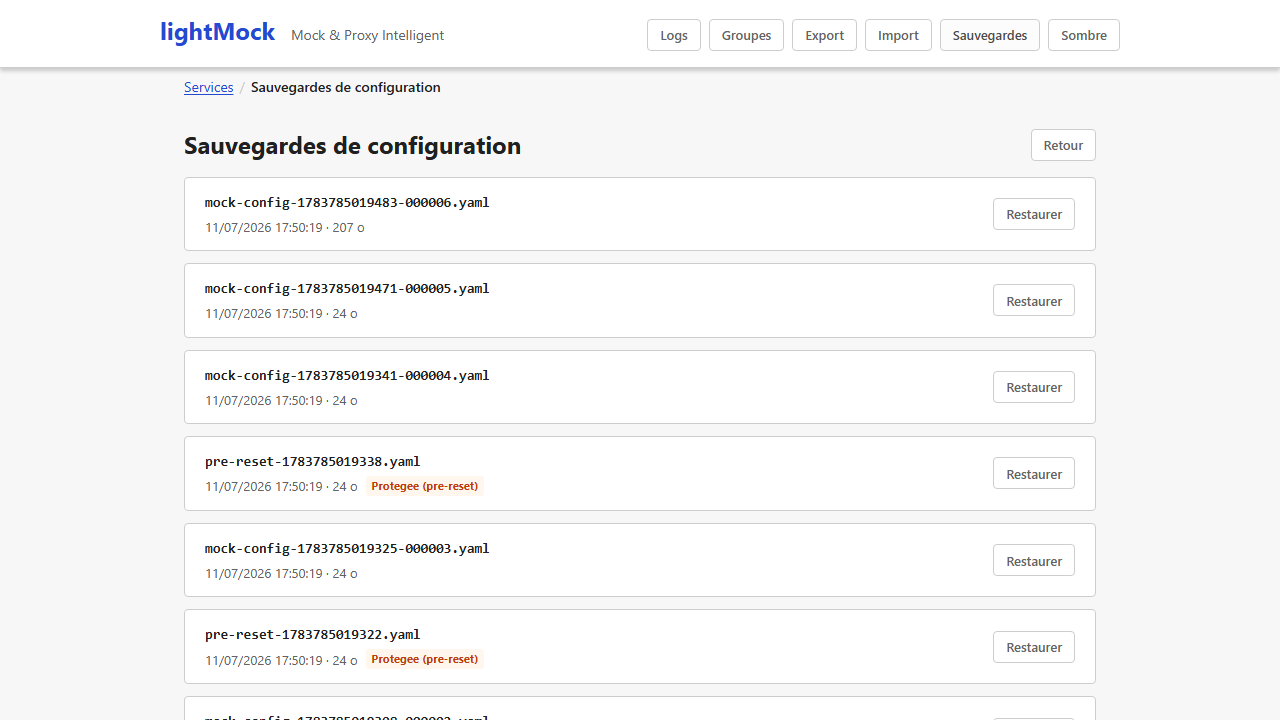
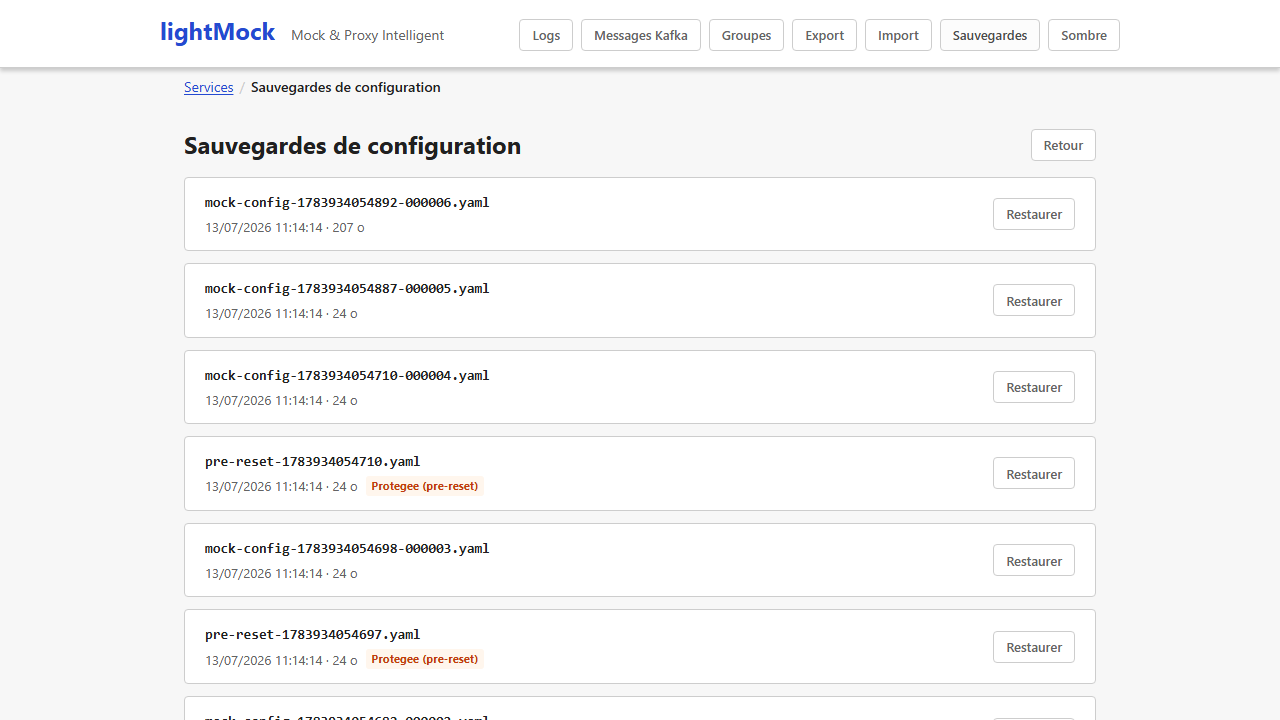
docs: capture les ecrans authentification, journal des requetes, SOAP et Kafka
Remplace les notes "capture manquante" de authentification.md et
journal-des-requetes.md par de vraies images (captures manuelles, ces
parcours ne sont traverses par aucun scenario E2E automatise), ajoute une
capture du formulaire de service en type SOAP/XML dans services.md, et
regenere enfin les 3 captures de messaging-kafka.md deja references dans le
texte mais jamais produites faute de binaire compile avec
--features messaging-kafka. Rafraichit au passage les autres captures
existantes via une regeneration complete de npm run docs:screenshots.

diff --git a/docs/authentification.md b/docs/authentification.md
@@ -12,9 +12,12 @@ Quand l'authentification est activée, lightMock délègue la vérification de l
 organisation, le cas échéant) : un écran de connexion apparaît, et l'accès est ensuite lié à
 l'utilisateur connecté.
 
-*(Capture manquante — l'environnement de tests automatisés tourne avec `AUTH_ENABLED=false`,
-l'écran de connexion Keycloak n'y apparaît jamais ; nécessite un serveur Keycloak réel pour être
-capturée, à réaliser manuellement.)*
+![Écran de connexion affiché quand l'authentification est activée](screenshots/authentification-ecran-connexion.png)
+
+*(Capture réalisée manuellement contre une instance locale temporaire configurée avec
+`AUTH_ENABLED=true` et un serveur Keycloak de substitution ne servant qu'à illustrer l'écran —
+aucun véritable serveur Keycloak d'organisation n'a été utilisé. Le rendu de l'écran lui-même
+est identique quel que soit le Keycloak réellement connecté.)*
 
 Les droits d'accès dépendent alors :
 
@@ -23,8 +26,11 @@ Les droits d'accès dépendent alors :
 - D'une liste de **super-administrateurs**, qui ont accès à tout, y compris aux actions
   sensibles (réinitialisation complète, restauration de sauvegardes).
 
-*(Capture manquante — même raison que ci-dessus : nécessite une session Keycloak réelle, à
-réaliser manuellement.)*
+![Barre de navigation une fois connecté, avec le badge du nom d'utilisateur](screenshots/authentification-badge-connecte.png)
+
+*(Même capture de substitution que ci-dessus. Une fois connecté, le nom d'utilisateur apparaît en
+badge dans la barre de navigation ; ici l'utilisateur est aussi super-administrateur, d'où la
+présence du bouton "Reset" à côté du badge.)*
 
 ## Prérequis et limites
 

diff --git a/docs/journal-des-requetes.md b/docs/journal-des-requetes.md
@@ -4,9 +4,11 @@ Le bouton **"Logs"** de la barre de navigation ouvre l'historique des dernières
 par lightMock, tous services confondus. Utile pour comprendre ce qui a été réellement envoyé par
 l'application testée, et pour diagnostiquer une règle qui ne se déclenche pas comme prévu.
 
-*(Capture manquante — aucun scénario E2E existant n'ouvre l'écran "Logs" [`RequestLog.svelte`],
-le journal n'est utilisé qu'indirectement via le sélecteur du testeur de règle ; à réaliser
-manuellement, cf `frontend/e2e/README.md` section captures.)*
+![Journal des requêtes listant les derniers appels reçus par un service](screenshots/journal-des-requetes-liste.png)
+
+*(Capture réalisée manuellement — le journal n'est normalement traversé qu'indirectement via le
+sélecteur du testeur de règle, aucun scénario E2E automatisé n'ouvre l'écran "Logs" pour
+lui-même.)*
 
 ## Ce que montre une entrée du journal
 
@@ -18,8 +20,9 @@ manuellement, cf `frontend/e2e/README.md` section captures.)*
 Ce détail est justement ce qu'utilise le [testeur de règle](testeur-de-regle-et-conflits.md) pour
 rejouer une requête précédente contre un brouillon de règle.
 
-*(Capture manquante — même raison que ci-dessus : aucun scénario E2E existant n'ouvre le détail
-d'une entrée du journal ; à réaliser manuellement, cf `frontend/e2e/README.md` section captures.)*
+![Détail d'une entrée du journal : méthode, chemin, mode et règle matchée](screenshots/journal-des-requetes-detail.png)
+
+*(Même remarque que ci-dessus : capture manuelle.)*
 
 ## Prérequis et limites
 

diff --git a/docs/messaging-kafka.md b/docs/messaging-kafka.md
@@ -13,10 +13,10 @@ n'est simplement pas incluse dans votre installation — ce n'est pas une erreur
 
 ![Bouton "Messages Kafka" visible dans la barre de navigation](screenshots/messaging-bouton-nav.png)
 
-*(Capture générée automatiquement par `npm run docs:screenshots`, mais uniquement contre un
-binaire compilé avec `--features messaging-kafka` — `frontend/e2e/messaging.spec.js` est
-`test.skip` sinon. Le binaire de développement par défaut ne l'a pas : régénérer contre un
-binaire avec la feature activée si cette image manque encore.)*
+*(Capture générée automatiquement par `npm run docs:screenshots`, réalisée contre un binaire
+compilé avec `--features messaging-kafka` — `frontend/e2e/messaging.spec.js` est `test.skip`
+sinon. Le binaire de développement par défaut ne l'a pas : régénérer contre un binaire avec la
+feature activée si cette image redevient manquante après une future mise à jour de l'interface.)*
 
 ## Fonctionnement
 

diff --git a/docs/services.md b/docs/services.md
@@ -77,6 +77,11 @@ techniques SOAP (WSDL — le fichier qui décrit une API SOAP) :
   d'API), soit être **prises en charge par vos règles mockées** (`Mock`, si vous voulez simuler
   aussi la description du service).
 
+![Formulaire de service avec le type "SOAP / XML" sélectionné](screenshots/service-formulaire-soap.png)
+
+*(Capture réalisée manuellement. Passer un service en SOAP se fait entièrement depuis ce même
+formulaire de création/modification — aucune configuration supplémentaire n'est nécessaire.)*
+
 ## Suppression, modification, clonage
 
 - **Modifier** un service ouvre le même formulaire pré-rempli.
